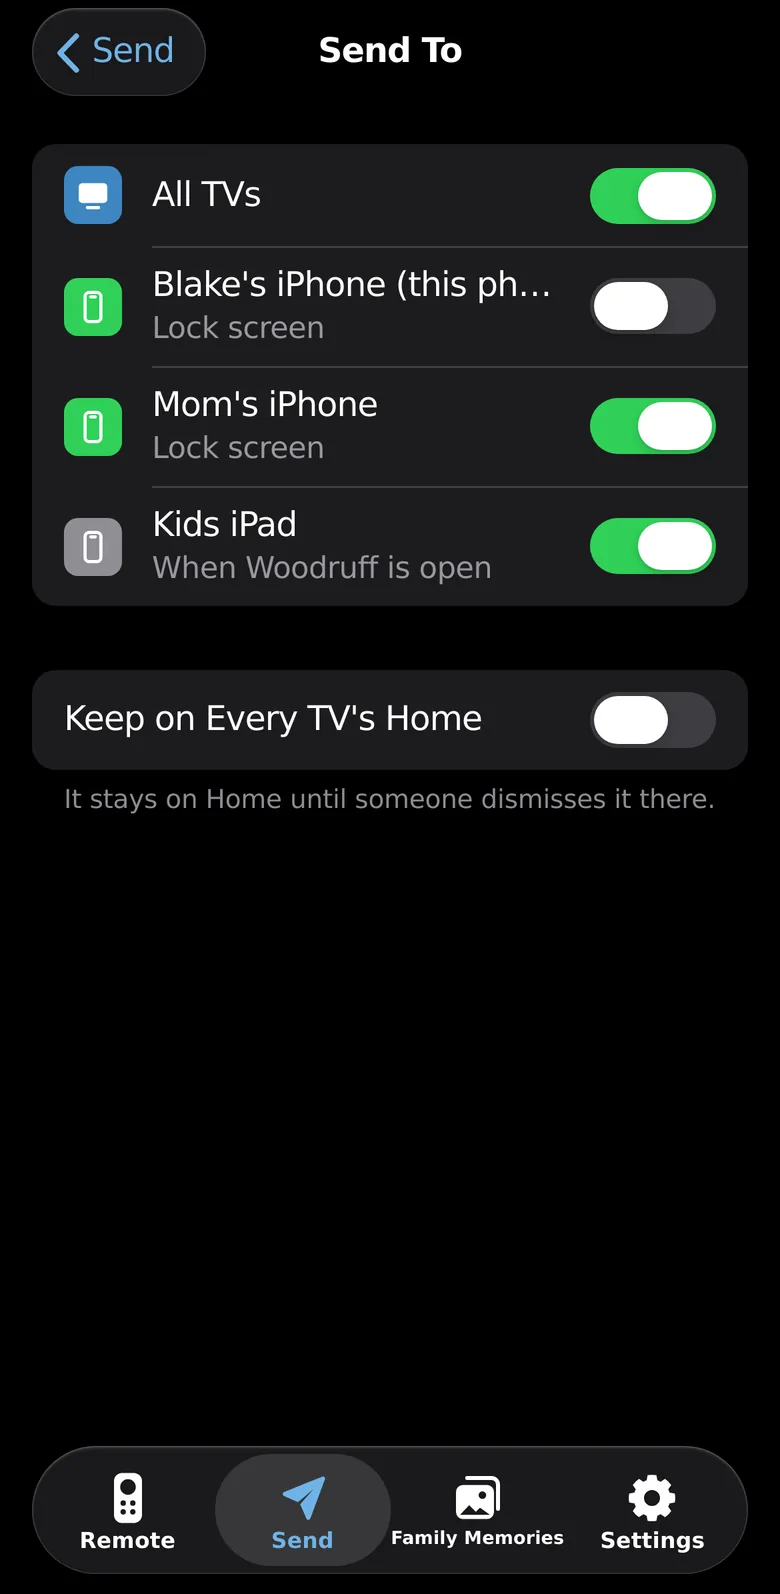
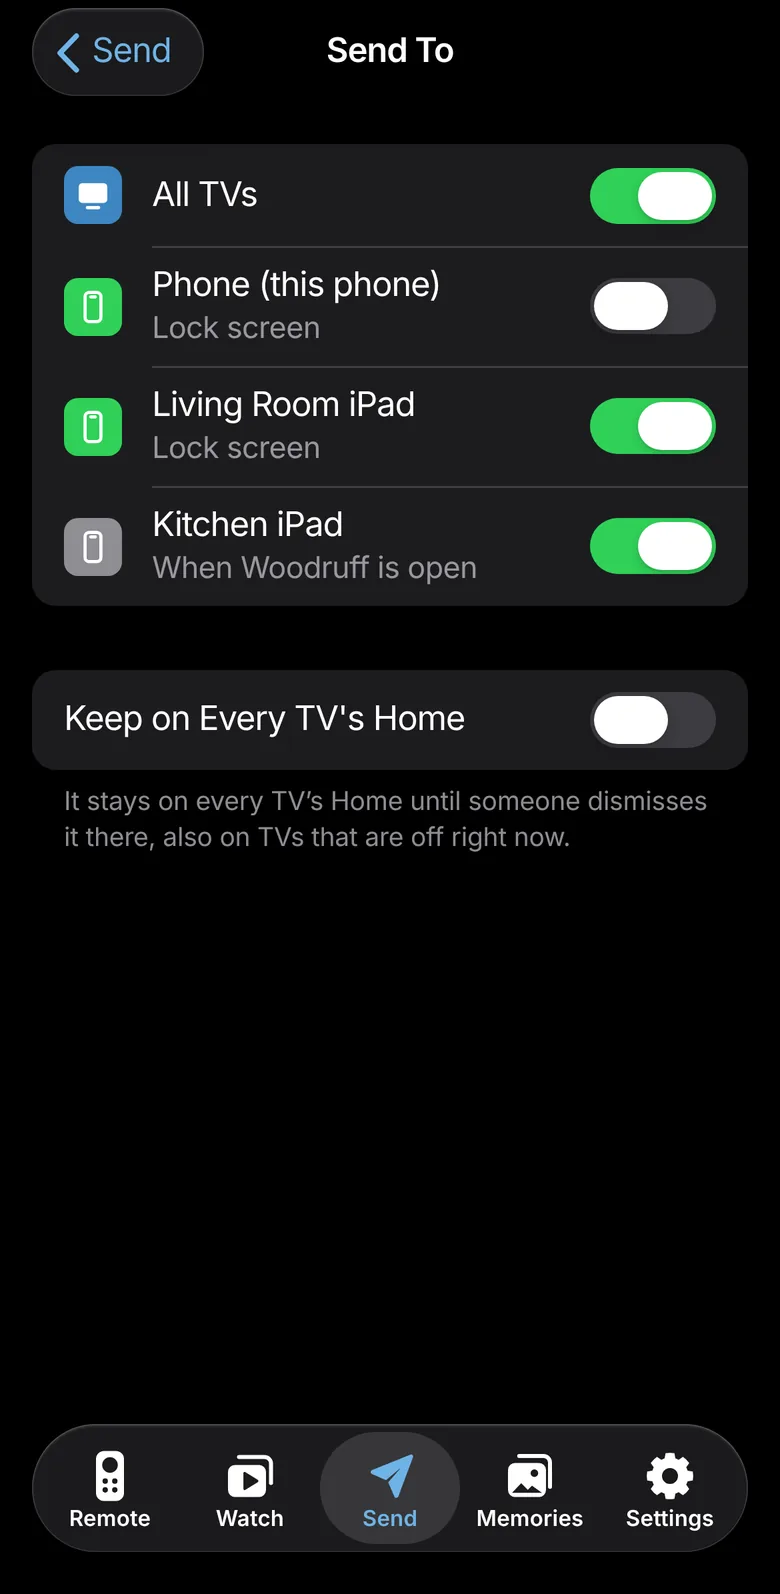
The public repository and its gallery pages name no one in the family [no release]
The repository is public, and some samples named family members or rooms
after them: the phone icon's examples and tests, the TV-list tests, the
phone app's name placeholder, and the mock's sample phones, which the
published gallery pictures show (Send › To and Settings).

- The samples are neutral now: Guest Room, Den's TV, Kitchen iPad, Phone.
  These are the same edits, byte for byte, as the wiring lane's privacy
  commit (0761b7e), so the two merge as one.
- The four published pictures that showed the old phone names
  (docs/ui/img/phone-send-to-*, phone-settings-*) are redrawn from the
  neutral samples, as the gallery job converts them, so they no longer
  show them even if that job doesn't run after this release.
- PublicSamplesTest looks through the app's sources and tests, the gallery
  tools, the published pages and CI for a room or a phone named after
  someone ("Someone's Room", "SOMEONE'S ROOM", "Someone's iPhone"). It
  can't list the names themselves, which would publish them. It fails on
  the tree before this change (16 places) and passes now.

README.md is left to the docs step: its rewrite already says Den and
Kitchen iPad there. Names in earlier commits stay in the history, which
isn't rewritten.

Claude-Session: https://claude.ai/code/session_016BEpDwAyjei2Wdfs1XZxGY

diff --git a/app/src/test/java/com/woodruff/tvexplorer/tvs/TvStatusesTest.kt b/app/src/test/java/com/woodruff/tvexplorer/tvs/TvStatusesTest.kt
@@ -21,7 +21,7 @@ import java.util.concurrent.atomic.AtomicInteger
 
 /** The phone's TV list: quick answers, the last known status for slow TVs, and "off" for the unknown. */
 class TvStatusesTest {
-    private val kids = LinkedTv("kids-id", "Kids Room", "http://192.168.1.21:8080", "key1")
+    private val den = LinkedTv("den-id", "Den", "http://192.168.1.21:8080", "key1")
     private val bedroom = LinkedTv("bed-id", "Bedroom", "http://192.168.1.22:8080", "key2")
     private val jobs = mutableListOf<Job>()
     private val scope = CoroutineScope(SupervisorJob() + Dispatchers.IO)
@@ -54,22 +54,22 @@ class TvStatusesTest {
     }
 
     @Test fun aTvHeardFromShowsItsLastStatusUnderItsLinkedName() {
-        val last = TvStatus("kids-id", "Old name", online = true, onScreen = true, playing = null, version = "2.0.40")
-        val list = lastKnown(listOf(kids), mapOf("kids-id" to last))
-        assertEquals(listOf(last.copy(name = "Kids Room")), list)
+        val last = TvStatus("den-id", "Old name", online = true, onScreen = true, playing = null, version = "2.0.40")
+        val list = lastKnown(listOf(den), mapOf("den-id" to last))
+        assertEquals(listOf(last.copy(name = "Den")), list)
     }
 
     @Test fun aTvRenamedOnItselfIsRenamedInTheList() {
-        val renamed = renamedIn(listOf(kids, bedroom), "kids-id", "  Kyler's Room ")!!
-        assertEquals(listOf("Kyler's Room", "Bedroom"), renamed.map { it.name })
-        assertEquals(listOf(kids.key, bedroom.key), renamed.map { it.key })
+        val renamed = renamedIn(listOf(den, bedroom), "den-id", "  Guest Room ")!!
+        assertEquals(listOf("Guest Room", "Bedroom"), renamed.map { it.name })
+        assertEquals(listOf(den.key, bedroom.key), renamed.map { it.key })
         // The same name, a blank one, or a TV that isn't linked: nothing to change.
-        assertNull(renamedIn(listOf(kids), "kids-id", "Kids Room"))
-        assertNull(renamedIn(listOf(kids), "kids-id", "   "))
-        assertNull(renamedIn(listOf(kids), "kids-id", null))
-        assertNull(renamedIn(listOf(kids), "gone-id", "Elliott's Room"))
+        assertNull(renamedIn(listOf(den), "den-id", "Den"))
+        assertNull(renamedIn(listOf(den), "den-id", "   "))
+        assertNull(renamedIn(listOf(den), "den-id", null))
+        assertNull(renamedIn(listOf(den), "gone-id", "Office"))
         // At most 40 characters, as on the TV.
-        assertEquals(40, renamedIn(listOf(kids), "kids-id", "x".repeat(60))!!.single().name.length)
+        assertEquals(40, renamedIn(listOf(den), "den-id", "x".repeat(60))!!.single().name.length)
     }
 
     @Test fun aTvNeverHeardFromIsOff() {
@@ -81,21 +81,21 @@ class TvStatusesTest {
             "bed-id" to TvStatus("bed-id", "Bedroom", true, false, null),
             "gone-id" to TvStatus("gone-id", "Unlinked", true, false, null),
         )
-        assertEquals(listOf("kids-id", "bed-id"), lastKnown(listOf(kids, bedroom), known).map { it.id })
+        assertEquals(listOf("den-id", "bed-id"), lastKnown(listOf(den, bedroom), known).map { it.id })
     }
 
     @Test fun answersInTimeAreNotWaitedOnFurther() {
-        val ms = elapsed { awaitAnswers(mapOf("kids-id" to answered(), "bed-id" to answered()), emptySet(), quickMs = 5_000, firstMs = 10_000) }
+        val ms = elapsed { awaitAnswers(mapOf("den-id" to answered(), "bed-id" to answered()), emptySet(), quickMs = 5_000, firstMs = 10_000) }
         assertTrue("took $ms ms", ms < 2_000)
     }
 
     @Test fun aSlowTvHeardFromBeforeGetsOnlyTheShortWait() {
-        val ms = elapsed { awaitAnswers(mapOf("kids-id" to pending(), "bed-id" to answered()), setOf("kids-id"), quickMs = 200, firstMs = 10_000) }
+        val ms = elapsed { awaitAnswers(mapOf("den-id" to pending(), "bed-id" to answered()), setOf("den-id"), quickMs = 200, firstMs = 10_000) }
         assertTrue("took $ms ms", ms in 180L until 5_000L)
     }
 
     @Test fun aTvNeverHeardFromGetsTheLongerWait() {
-        val ms = elapsed { awaitAnswers(mapOf("kids-id" to pending()), emptySet(), quickMs = 100, firstMs = 600) }
+        val ms = elapsed { awaitAnswers(mapOf("den-id" to pending()), emptySet(), quickMs = 100, firstMs = 600) }
         assertTrue("took $ms ms", ms in 550L until 5_000L)
     }
 
@@ -109,23 +109,23 @@ class TvStatusesTest {
     }
 
     @Test fun aTvThatAnswersShowsWhatItSaid() {
-        val tv = FakeTv().apply { next = TvStatus("kids-id", "Kids", online = true, onScreen = true, playing = null, version = "2.0.41") }
-        val list = runBlocking { StatusChecks(scope, tv::ask).statuses(listOf(kids)) }
-        assertEquals(listOf(TvStatus("kids-id", "Kids Room", online = true, onScreen = true, playing = null, version = "2.0.41")), list)
+        val tv = FakeTv().apply { next = TvStatus("den-id", "Den TV", online = true, onScreen = true, playing = null, version = "2.0.41") }
+        val list = runBlocking { StatusChecks(scope, tv::ask).statuses(listOf(den)) }
+        assertEquals(listOf(TvStatus("den-id", "Den", online = true, onScreen = true, playing = null, version = "2.0.41")), list)
     }
 
     @Test fun aTvThatFallsAsleepShowsItsLastAnswerUntilItsCheckGivesUp() {
-        val tv = FakeTv().apply { next = TvStatus("kids-id", "Kids Room", online = true, onScreen = false, playing = null) }
+        val tv = FakeTv().apply { next = TvStatus("den-id", "Den", online = true, onScreen = false, playing = null) }
         val checks = StatusChecks(scope, tv::ask)
-        runBlocking { checks.statuses(listOf(kids)) }
+        runBlocking { checks.statuses(listOf(den)) }
         // Asleep: no answer for a second, then the check fails.
         tv.next = null
         tv.delayMs = 1_000
-        val ms = elapsed { assertTrue(checks.statuses(listOf(kids), quickMs = 100, firstMs = 5_000).single().online) }
+        val ms = elapsed { assertTrue(checks.statuses(listOf(den), quickMs = 100, firstMs = 5_000).single().online) }
         assertTrue("took $ms ms", ms < 900)
         Thread.sleep(1_300)
         // That check has given up by now: the TV counts as off, still without waiting.
-        assertFalse(runBlocking { checks.statuses(listOf(kids), quickMs = 100, firstMs = 5_000) }.single().online)
+        assertFalse(runBlocking { checks.statuses(listOf(den), quickMs = 100, firstMs = 5_000) }.single().online)
     }
 
     @Test fun aTvNeverHeardFromIsOffAfterTheLongerWait() {
@@ -136,10 +136,10 @@ class TvStatusesTest {
     }
 
     @Test fun aSecondCallerJoinsTheCheckUnderWay() = runBlocking {
-        val tv = FakeTv().apply { next = TvStatus("kids-id", "Kids Room", true, false, null); delayMs = 400 }
+        val tv = FakeTv().apply { next = TvStatus("den-id", "Den", true, false, null); delayMs = 400 }
         val checks = StatusChecks(scope, tv::ask)
-        val a = async { checks.statuses(listOf(kids), quickMs = 50, firstMs = 100) }
-        val b = async { checks.statuses(listOf(kids), quickMs = 50, firstMs = 100) }
+        val a = async { checks.statuses(listOf(den), quickMs = 50, firstMs = 100) }
+        val b = async { checks.statuses(listOf(den), quickMs = 50, firstMs = 100) }
         a.await(); b.await()
         assertEquals(1, tv.asked.get())
     }

diff --git a/app/src/test/java/com/woodruff/tvexplorer/PublicSamplesTest.kt b/app/src/test/java/com/woodruff/tvexplorer/PublicSamplesTest.kt
@@ -1,0 +1,66 @@
+package com.woodruff.tvexplorer
+
+import org.junit.Assert.assertEquals
+import org.junit.Test
+import java.io.File
+
+/**
+ * The repository is public, so no sample, placeholder, comment, test or page in it names someone in the family. This
+ * can't list their names (that would publish them), so it looks for the shape such a sample takes: a room or a phone
+ * named after someone ("Someone's Room", "SOMEONE’S ROOM", "Someone's iPhone"). Neutral ones pass: "Living Room",
+ * "Kitchen iPad", "Den's TV", "Guest's Room".
+ *
+ * README.md is left to the docs step, which rewrites it (its rewrite names rooms and phones neutrally too).
+ */
+class PublicSamplesTest {
+    @Test fun noRoomOrPhoneInTheRepositoryIsNamedAfterSomeone() {
+        val root = listOf(File(".."), File(".")).map { it.canonicalFile }
+            .first { File(it, "settings.gradle.kts").isFile && File(it, "app/src").isDirectory }
+        val found = publicText(root).flatMap { f ->
+            f.readLines().withIndex().flatMap { (i, line) -> namedAfterSomeone(line).map { "${f.relativeTo(root)}:${i + 1}: $it" } }
+        }
+        assertEquals("Rooms or phones named after someone (use neutral samples: Living Room, Den, Kitchen iPad):", emptyList<String>(), found)
+    }
+
+    @Test fun theShapeIsFoundAndNeutralNamesPass() {
+        assertEquals(listOf("Someone's Room"), namedAfterSomeone("the TV's name, e.g. *Someone's Room*: its picture says"))
+        assertEquals(listOf("SOMEONE’S ROOM"), namedAfterSomeone("its picture says SOMEONE’S ROOM where it says WOODRUFF FAMILY"))
+        assertEquals(listOf("Somebody's iPhone", "Somebody’s iPad"), namedAfterSomeone("""{"name": "Somebody's iPhone"}, {"name": "Somebody’s iPad"}"""))
+        assertEquals(listOf("Someone's Bedroom"), namedAfterSomeone("renamedIn(list, \"id\", \"Someone's Bedroom\")"))
+        for (neutral in listOf(
+            "Living Room", "Master Bedroom", "Kitchen iPad", "Living Room iPad", "\"Den's TV\" → (\"DEN’S\", \"TV\")", "Guest's Room",
+            "GUEST’S ROOM", "the owner's phone", "Google's TV-specific sign-in", "Woodruff's own player", "the TV's room for a video",
+        )) assertEquals(neutral, emptyList<String>(), namedAfterSomeone(neutral))
+    }
+
+    /**
+     * The repository's own text files: the app's sources and tests, the gallery tools, the published pages, CI, and the
+     * build files (this file aside: its examples are made up to be found).
+     */
+    private fun publicText(root: File): List<File> {
+        val trees = listOf("app/src", "tools", "docs", ".github").map { File(root, it) }.filter { it.isDirectory }
+            .flatMap { dir -> dir.walkTopDown().onEnter { it.name != "build" && it.name != "node_modules" }.filter { it.isFile }.toList() }
+        val top = root.listFiles().orEmpty().filter { it.isFile && it.name != "README.md" && it.name != "local.properties" }
+        return (trees + top).filter { it.extension.lowercase() in TEXT && it.name != "PublicSamplesTest.kt" }.sortedBy { it.path }
+    }
+
+    private companion object {
+        val TEXT = setOf("kt", "kts", "java", "xml", "html", "js", "mjs", "py", "md", "json", "yml", "yaml", "properties", "txt", "css", "webmanifest", "pro")
+    }
+}
+
+/**
+ * The rooms and phones in [line] named after someone: a capitalised word's possessive ahead of Room, Bedroom, iPhone or
+ * iPad (or the same in capitals, as a Home Screen icon writes it), unless that word is a neutral one.
+ */
+internal fun namedAfterSomeone(line: String): List<String> =
+    SHAPES.flatMap { it.findAll(line).toList() }.sortedBy { it.range.first }
+        .filter { it.groupValues[1].lowercase() !in NEUTRAL_OWNERS }.map { it.value }
+
+private val SHAPES = listOf(
+    Regex("""\b([A-Z][a-z]+)['’]s\s+(?:Room|Bedroom|iPhone|iPad)\b"""),
+    Regex("""\b([A-Z]{2,})['’]S\s+(?:ROOM|BEDROOM|IPHONE|IPAD)\b"""),
+)
+
+/** Possessives that name no one: a room or phone for whoever is staying. */
+private val NEUTRAL_OWNERS = setOf("guest")

diff --git a/app/src/test/java/com/woodruff/tvexplorer/server/PhoneIconTest.kt b/app/src/test/java/com/woodruff/tvexplorer/server/PhoneIconTest.kt
@@ -47,14 +47,14 @@ class PhoneIconTest {
     }
 
     @Test fun namesAreSafeInThePage() {
-        assertEquals("Mom &amp; Dad&#39;s &lt;TV&gt; &quot;1&quot;", PhoneIcon.escapeHtml("Mom & Dad's <TV> \"1\""))
-        assertTrue(PhoneIcon.render(page, "k", "Elliot's").contains("""content="Elliot&#39;s">"""))
+        assertEquals("Den &amp; Kitchen&#39;s &lt;TV&gt; &quot;1&quot;", PhoneIcon.escapeHtml("Den & Kitchen's <TV> \"1\""))
+        assertTrue(PhoneIcon.render(page, "k", "Den's").contains("""content="Den&#39;s">"""))
     }
 
     @Test fun aRenamedTvGetsAFreshManifestAddress() {
-        assertEquals(8, PhoneIcon.tag("Elliot").length)
-        assertEquals(PhoneIcon.tag("Elliot"), PhoneIcon.tag("Elliot"))
-        assertNotEquals(PhoneIcon.tag("Elliot"), PhoneIcon.tag("Master Bedroom"))
+        assertEquals(8, PhoneIcon.tag("Den").length)
+        assertEquals(PhoneIcon.tag("Den"), PhoneIcon.tag("Den"))
+        assertNotEquals(PhoneIcon.tag("Den"), PhoneIcon.tag("Master Bedroom"))
     }
 
     @Test fun theManifestIsNamedAfterTheTvAndKeepsEverythingElse() {
@@ -76,13 +76,13 @@ class PhoneIconTest {
 
     @Test fun nameIsWrittenLikeWoodruffFamily() {
         assertEquals("WOODRUFF" to "FAMILY", PhoneIcon.wording("Woodruff Family"))
-        assertEquals("KYLER\u2019S" to "ROOM", PhoneIcon.wording("Kyler's Room"))
-        assertEquals("ELLIOTT\u2019S" to "ROOM", PhoneIcon.wording(" Elliott's   Room "))
+        assertEquals("DEN\u2019S" to "TV", PhoneIcon.wording("Den's TV"))
+        assertEquals("KITCHEN\u2019S" to "TV", PhoneIcon.wording(" Kitchen's   TV "))
         assertEquals("LIVING" to "ROOM", PhoneIcon.wording("Living Room"))
         assertEquals("MASTER" to "BEDROOM", PhoneIcon.wording("Master Bedroom"))
         assertEquals("THE BIG" to "DEN", PhoneIcon.wording("The Big Den"))
-        val one = PhoneIcon.wording("Elliott")
-        assertEquals("ELLIOTT", one.first)
+        val one = PhoneIcon.wording("Basement")
+        assertEquals("BASEMENT", one.first)
         assertNull(one.second)
     }
 
@@ -108,7 +108,7 @@ class PhoneIconTest {
         assertEquals(0.0, difference(base, original, 0, 360), 0.5)
 
         val out = File("build/phone-icons").apply { mkdirs() }
-        for (name in listOf("Living Room", "Elliott's Room", "Kyler's Room", "Master Bedroom", "Elliott")) {
+        for (name in listOf("Living Room", "Den's TV", "Guest Room", "Master Bedroom", "Basement")) {
             for (size in PhoneIcon.PICTURES.values) {
                 val png = PhoneIcon.picture(app, size, name)
                 val bmp = BitmapFactory.decodeByteArray(png, 0, png.size)

diff --git a/app/src/main/java/com/woodruff/tvexplorer/server/PhoneIcon.kt b/app/src/main/java/com/woodruff/tvexplorer/server/PhoneIcon.kt
@@ -17,8 +17,8 @@ import java.util.concurrent.ConcurrentHashMap
 
 /**
  * This TV's web app on a phone's Home Screen is named after the TV (Settings → TVs & phones → This
- * TV's name, e.g. "Kyler's Room"), in the label under the icon and on the icon's picture itself, where
- * "WOODRUFF FAMILY" is written: "KYLER'S" large and white, "ROOM" small and blue under it, over the
+ * TV's name, e.g. "Guest Room"), in the label under the icon and on the icon's picture itself, where
+ * "WOODRUFF FAMILY" is written: "GUEST" large and white, "ROOM" small and blue under it, over the
  * same emblem and background. A TV that hasn't been given a name keeps the app's name and picture.
  * Nothing else changes: the app inside, its own logo and pictures (icon-*.png), and Woodruff on the TV.
  *
@@ -57,7 +57,8 @@ object PhoneIcon {
 
     /**
      * How [label] is written on the icon, as "WOODRUFF FAMILY" is: the first words large, the last
-     * word small under them; a single word on one line. "Kyler's Room" → ("KYLER’S", "ROOM").
+     * word small under them; a single word on one line. "Guest Room" → ("GUEST", "ROOM"); an
+     * apostrophe is written curly, "Den's TV" → ("DEN’S", "TV").
      */
     fun wording(label: String): Pair<String, String?> {
         val words = label.trim().uppercase(Locale.US).replace('\'', '\u2019').split(Regex("\\s+")).filter { it.isNotEmpty() }

diff --git a/app/src/main/assets/web/index.html b/app/src/main/assets/web/index.html
@@ -1063,7 +1063,7 @@
 
   <div class="page" id="set-phone" data-title="This Phone" data-hash="phone"><div class="scroller">
     <div class="head">Name</div>
-    <div class="group"><label class="row field"><input id="p-name" placeholder="Blake's iPhone" autocomplete="off" enterkeyhint="done" aria-label="Name"></label></div>
+    <div class="group"><label class="row field"><input id="p-name" placeholder="Kitchen iPad" autocomplete="off" enterkeyhint="done" aria-label="Name"></label></div>
     <div class="group">
       <div class="row"><span class="txt t">Lock-Screen Alerts</span><input type="checkbox" class="switch" switch id="p-alerts" aria-label="Lock-screen alerts"></div>
       <button class="row tap" id="p-ntfy" data-page="set-ntfy" hidden><span class="txt t">How to Set Up</span><i data-ic="chev"></i></button>
@@ -2707,7 +2707,7 @@
     });
     renderTo();
   }
-  // The To row in a few words: "Everyone", "All TVs", "Living Room + 2 phones", "Mom's iPhone"…
+  // The To row in a few words: "Everyone", "All TVs", "Living Room + 2 phones", "Kitchen iPad"…
   function renderTo() {
     var on = phones.filter(function (p) { return chosen[p.id]; }), others = phones.filter(function (p) { return p.id !== device.id; });
     var n = on.length, pin = $('n-pin').checked, s;

diff --git a/app/src/main/java/com/woodruff/tvexplorer/phones/Phones.kt b/app/src/main/java/com/woodruff/tvexplorer/phones/Phones.kt
@@ -12,7 +12,7 @@ import java.net.HttpURLConnection
 import java.net.URL
 import kotlin.concurrent.thread
 
-/** A phone that opened the companion web app, with the name its owner gave it ("Mom's iPhone"). */
+/** A phone that opened the companion web app, with the name its owner gave it ("Kitchen iPad"). */
 data class Phone(val id: String, val name: String, val topic: String?, val lastSeen: Long)
 
 /**

diff --git a/tools/gallery/mock_server.py b/tools/gallery/mock_server.py
@@ -146,9 +146,9 @@ def room_for(path):
 def memories_json():
     return {'items': MEMORIES, 'folder': PHOTOS, 'fit': [1920, 1080], 'slideshow': True, 'free': FREE['tv']}
 PHONES = [
-    {'id': 'p-blake', 'name': "Blake's iPhone", 'alerts': True},
-    {'id': 'p-mom', 'name': "Mom's iPhone", 'alerts': True},
-    {'id': 'p-kids', 'name': 'Kids iPad', 'alerts': False},
+    {'id': 'p-phone', 'name': 'Phone', 'alerts': True},
+    {'id': 'p-living-room', 'name': 'Living Room iPad', 'alerts': True},
+    {'id': 'p-kitchen', 'name': 'Kitchen iPad', 'alerts': False},
 ]
 SETTINGS = {
     'notifyUrl': 'http://192.168.1.20:8080/api/notify?k=…&tvs=all',
@@ -1217,7 +1217,7 @@ class Handler(BaseHTTPRequestHandler):
             DIAG['started'] = time.time()
             return self.send({'ok': True, 'seconds': RECORD_S})
         if path == '/api/phone/hello':
-            phone = {'id': body.get('id', 'p-blake'), 'name': body.get('name', "Blake's iPhone"),
+            phone = {'id': body.get('id', 'p-phone'), 'name': body.get('name', 'Phone'),
                      'alerts': body.get('alerts', True), 'topic': 'woodruff-example'}
             return self.send({'phone': phone, 'phones': PHONES})
         if upload and len(raw) > room_for(query.get('path', [PHOTOS])[0] if path == '/api/upload' else PHOTOS):
